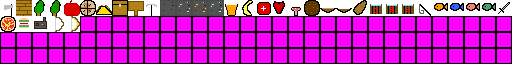
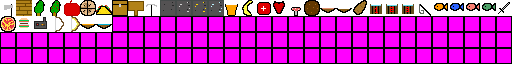
Add water and lava bowls

Changed region(s): [[0.1562, 0.25, 0.2188, 0.5]]

diff --git a/src/com/game/entities/player/items/BowlItem.java b/src/com/game/entities/player/items/BowlItem.java
@@ -1,12 +1,15 @@
 package com.game.entities.player.items;
 
 import java.awt.image.BufferedImage;
+import java.util.LinkedList;
 
-import com.game.annotations.Empty;
-import com.game.annotations.NotNeeded;
-import com.game.annotations.Unused;
+import com.game.collision.objects.LavaTransparentCollisionObject;
+import com.game.collision.objects.WaterTransparentCollisionObject;
+import com.game.collision.objects.base.CollisionObject;
+import com.game.collision.objects.base.ObjectType;
 import com.game.entities.player.items.base.Item;
 import com.game.entities.player.items.base.ItemID;
+import com.game.main.Game;
 
 public class BowlItem extends Item<BowlItem> {
 
@@ -27,13 +30,40 @@ public class BowlItem extends Item<BowlItem> {
 		return new BowlItem(this.count, this.id, this.image);
 	}
 	
-	@NotNeeded
-	@Empty
-	@Unused
 	@Override
 	public void use() {
 		
+		LinkedList<CollisionObject> objList = Game.MAP_HANDLER().currentMap().getObjectList();
 		
+		for (int i = 0; i < objList.size(); i++) {
+			
+			CollisionObject o = objList.get(i);
+			
+			if (o instanceof WaterTransparentCollisionObject && o.getType() == ObjectType.WATER
+					&& Game.PLAYER.getRectangle().intersects(o.getRectangle())) {
+				
+				this.count--;
+				
+				if (this.count <= 0) Game.PLAYER.getHotbar().list[Game.PLAYER.getHotbar().currentItemIndex] = null;
+				
+				Game.addItemOrItemEntity(new WaterBowlItem(1));
+				
+				Game.MAP_HANDLER().currentMap().removeObject(o);
+				
+			} else if (o instanceof LavaTransparentCollisionObject && o.getType() == ObjectType.LAVA
+					&& Game.PLAYER.getRectangle().intersects(o.getRectangle())) {
+				
+				this.count--;
+				
+				if (this.count <= 0) Game.PLAYER.getHotbar().list[Game.PLAYER.getHotbar().currentItemIndex] = null;
+				
+				Game.addItemOrItemEntity(new LavaBowlItem(1));
+				
+				Game.MAP_HANDLER().currentMap().removeObject(o);
+				
+			}
+			
+		}
 		
 	}
 

diff --git a/src/com/game/entities/player/items/LavaBowlItem.java b/src/com/game/entities/player/items/LavaBowlItem.java
@@ -1,0 +1,52 @@
+package com.game.entities.player.items;
+
+import com.game.collision.objects.LavaTransparentCollisionObject;
+import com.game.collision.objects.base.ObjectType;
+import com.game.entities.player.items.base.Item;
+import com.game.entities.player.items.base.ItemID;
+import com.game.main.Game;
+
+public class LavaBowlItem extends Item<LavaBowlItem> {
+
+	/**
+	 * 
+	 */
+	private static final long serialVersionUID = 6086634405786729823L;
+
+	public LavaBowlItem(int count) {
+		super(count, ItemID.LAVA_BOWL, Game.ITEM_TEXTRA_ALICE.getImageFrom(80, 16, 16, 16));
+		
+	}
+
+	@Override
+	public LavaBowlItem cloneType() {
+		return new LavaBowlItem(this.count);
+	}
+
+	@Override
+	public void use() {
+		
+		this.count--;
+		
+		if (this.count <= 0) Game.PLAYER.getHotbar().list[Game.PLAYER.getHotbar().currentItemIndex] = null;
+		
+		LavaTransparentCollisionObject lava = new LavaTransparentCollisionObject((int) Game.PLAYER.getX(),
+				(int) Game.PLAYER.getY(), 64, 64, ObjectType.LAVA,
+				Game.OBJECT_TEXTRA_ALICE.getImageFrom(288, 0, 16, 16));
+		
+		Game.MAP_HANDLER().currentMap().addObject(lava);
+		
+		Game.addItemOrItemEntity(new BowlItem(1, ItemID.BOWL_1, Game.ITEM_TEXTRA_ALICE.getImageFrom(336, 0, 16, 16)));
+		
+		for (int i = 0; i < 10; i++) {
+			
+			float[] pos = Game.getRandomItemPos();
+			
+			Game.PLAYER.setX(pos[0]);
+			Game.PLAYER.setY(pos[1]);
+			
+		}
+		
+	}
+
+}

diff --git a/src/com/game/entities/player/items/WaterBowlItem.java b/src/com/game/entities/player/items/WaterBowlItem.java
@@ -1,0 +1,44 @@
+package com.game.entities.player.items;
+
+import com.game.collision.objects.WaterTransparentCollisionObject;
+import com.game.collision.objects.base.ObjectType;
+import com.game.entities.player.items.base.Item;
+import com.game.entities.player.items.base.ItemID;
+import com.game.main.Game;
+
+public class WaterBowlItem extends Item<WaterBowlItem> {
+
+	/**
+	 * 
+	 */
+	private static final long serialVersionUID = -5363199645881450914L;
+
+	public WaterBowlItem(int count) {
+		super(count, ItemID.WATER_BOWL, Game.ITEM_TEXTRA_ALICE.getImageFrom(96, 16, 16, 16));
+		
+		
+	}
+
+	@Override
+	public WaterBowlItem cloneType() {
+		return new WaterBowlItem(this.count);
+	}
+
+	@Override
+	public void use() {
+		
+		this.count--;
+		
+		if (this.count <= 0) Game.PLAYER.getHotbar().list[Game.PLAYER.getHotbar().currentItemIndex] = null;
+		
+		WaterTransparentCollisionObject water = new WaterTransparentCollisionObject((int) Game.PLAYER.getX(),
+				(int) Game.PLAYER.getY(), 64, 64, ObjectType.WATER,
+				Game.OBJECT_TEXTRA_ALICE.getImageFrom(272, 0, 16, 16));
+		
+		Game.MAP_HANDLER().currentMap().addObject(water);
+		
+		Game.addItemOrItemEntity(new BowlItem(1, ItemID.BOWL_1, Game.ITEM_TEXTRA_ALICE.getImageFrom(336, 0, 16, 16)));
+		
+	}
+
+}

diff --git a/src/com/game/main/Game.java b/src/com/game/main/Game.java
@@ -1024,6 +1024,15 @@ public class Game {
 					
 				case BOMB:
 					item.setImage(Game.BOMB_TEXTRA_ALICE.getImageFrom(0, 0, 16, 16));
+					break;
+					
+				case LAVA_BOWL:
+					item.setImage(Game.ITEM_TEXTRA_ALICE.getImageFrom(80, 16, 16, 16));
+					break;
+					
+				case WATER_BOWL:
+					item.setImage(Game.ITEM_TEXTRA_ALICE.getImageFrom(96, 16, 16, 16));
+					break;
 					
 			}
 			
@@ -1260,6 +1269,15 @@ public class Game {
 								
 							case BOMB:
 								item.setImage(Game.BOMB_TEXTRA_ALICE.getImageFrom(0, 0, 16, 16));
+								break;
+								
+							case LAVA_BOWL:
+								item.setImage(Game.ITEM_TEXTRA_ALICE.getImageFrom(80, 16, 16, 16));
+								break;
+								
+							case WATER_BOWL:
+								item.setImage(Game.ITEM_TEXTRA_ALICE.getImageFrom(96, 16, 16, 16));
+								break;
 							
 					
 						}

diff --git a/src/com/game/collision/objects/WaterTransparentCollisionObject.java b/src/com/game/collision/objects/WaterTransparentCollisionObject.java
@@ -20,7 +20,7 @@ public class WaterTransparentCollisionObject extends CollisionObject implements 
 
 	public WaterTransparentCollisionObject(int x, int y, int width, int height, ObjectType type, BufferedImage image) {
 		
-		super(x, y, width, height, type, image, false);
+		super(x, y, width, height, type, image, true);
 		
 		
 	}

diff --git a/src/com/game/collision/objects/LavaTransparentCollisionObject.java b/src/com/game/collision/objects/LavaTransparentCollisionObject.java
@@ -20,7 +20,7 @@ public class LavaTransparentCollisionObject extends CollisionObject implements D
 
 	public LavaTransparentCollisionObject(int x, int y, int width, int height, ObjectType type, BufferedImage image) {
 		
-		super(x, y, width, height, type, image, false);
+		super(x, y, width, height, type, image, true);
 		
 		
 	}

diff --git a/src/com/game/entities/player/items/base/ItemID.java b/src/com/game/entities/player/items/base/ItemID.java
@@ -44,6 +44,8 @@ public enum ItemID {
 	FAST_GENERATION_EFFECT_1(),
 	POSION_EFFECT_1(),
 	RESISTANCE_EFFECT_1(),
-	BOMB();
+	BOMB(),
+	WATER_BOWL(),
+	LAVA_BOWL();
 
 }
